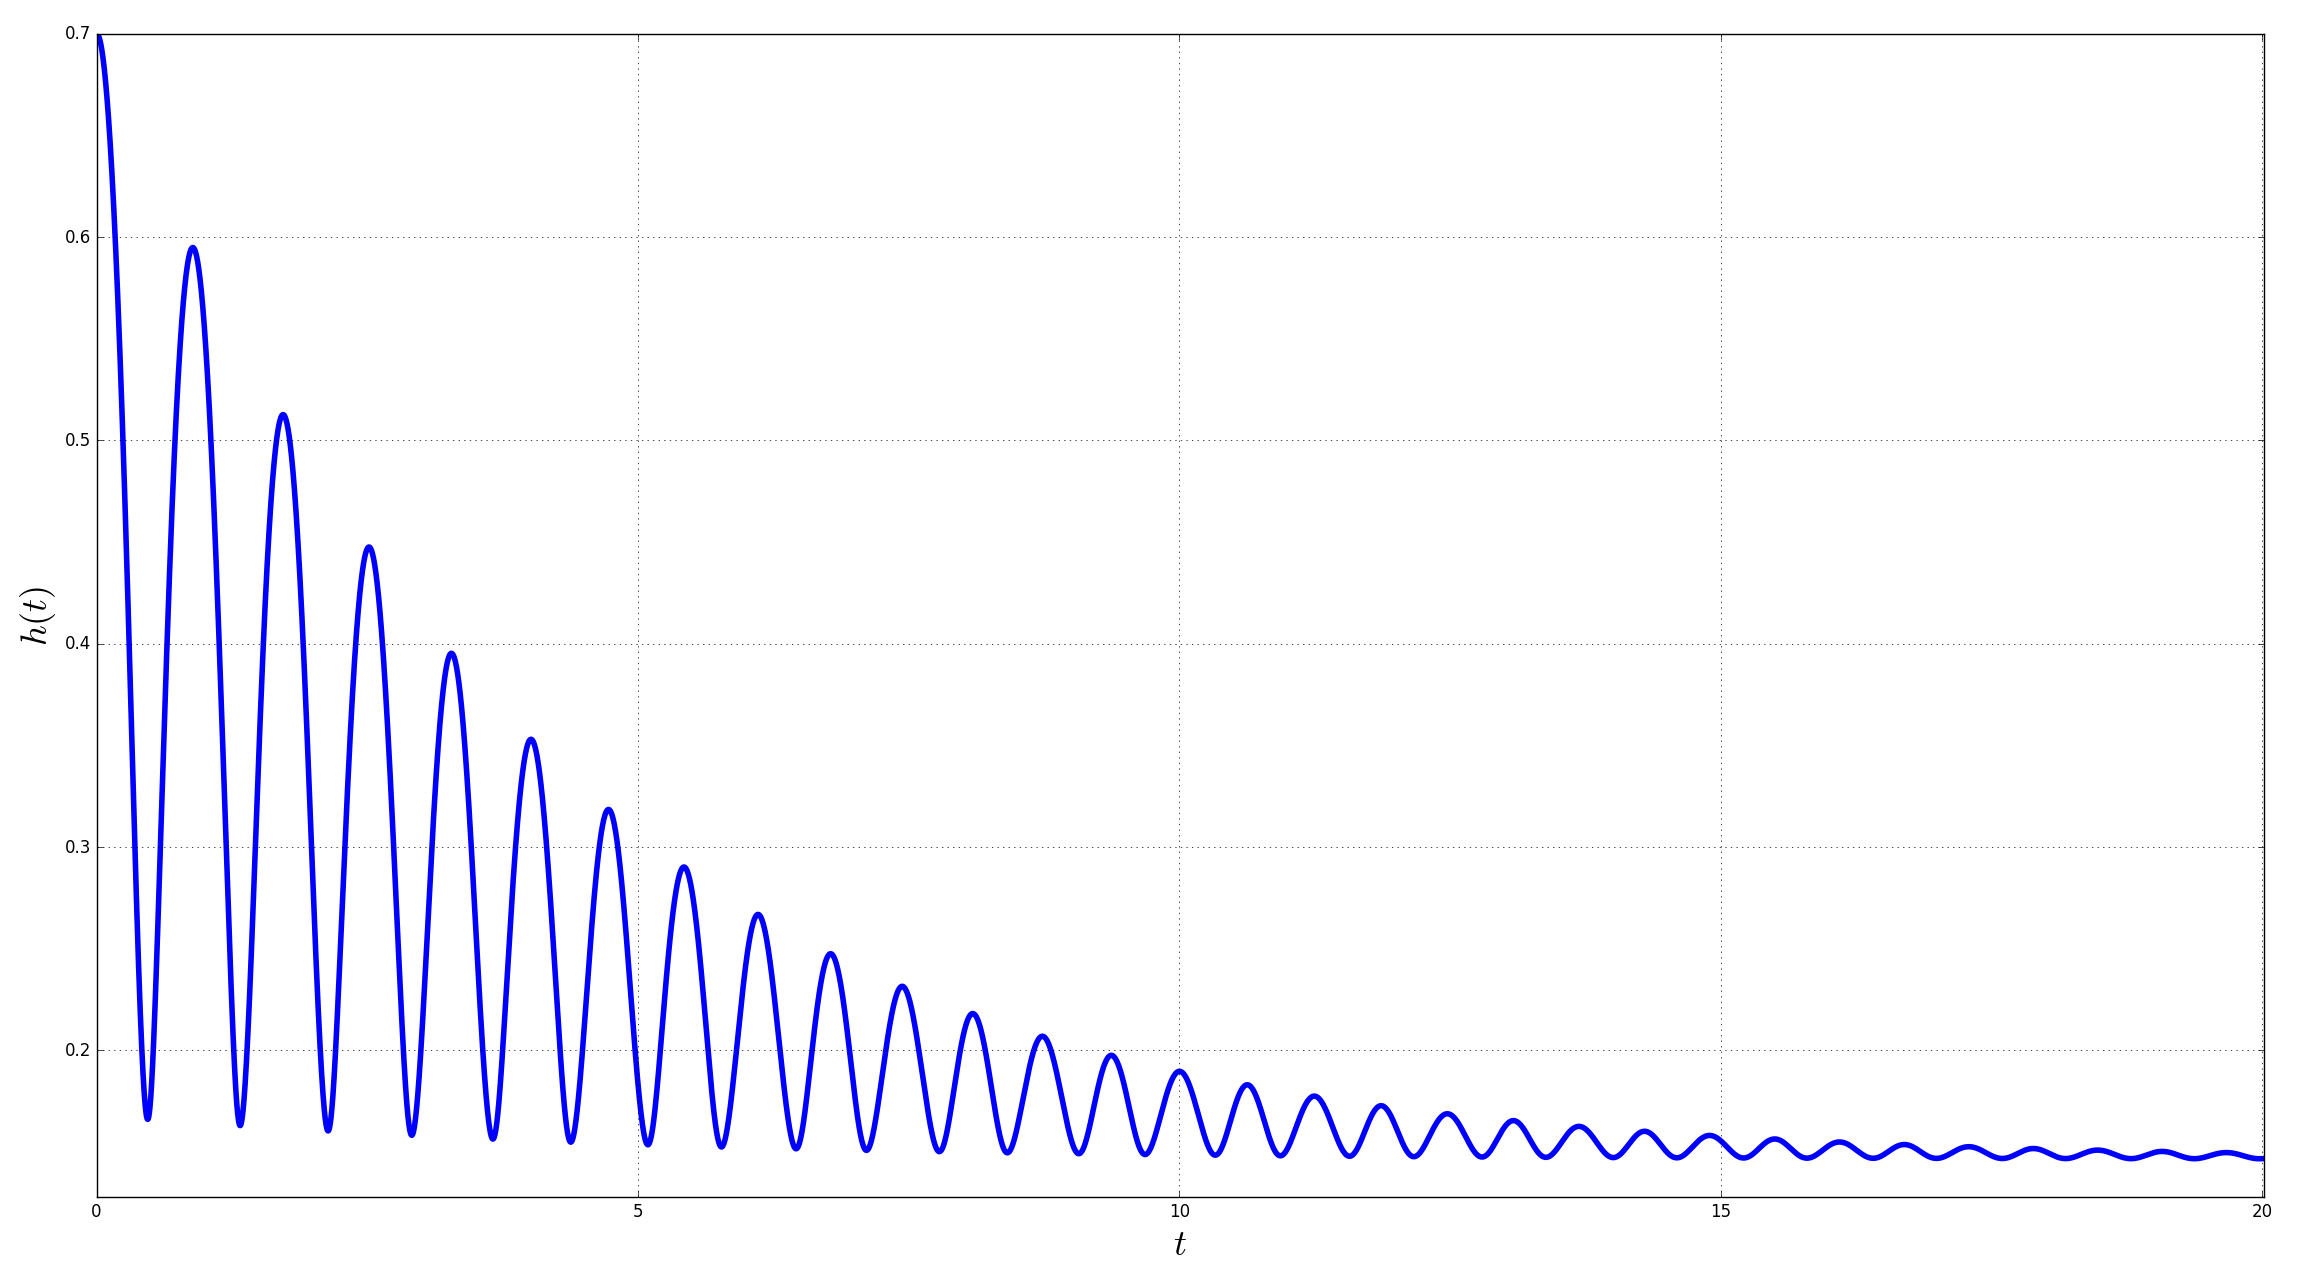
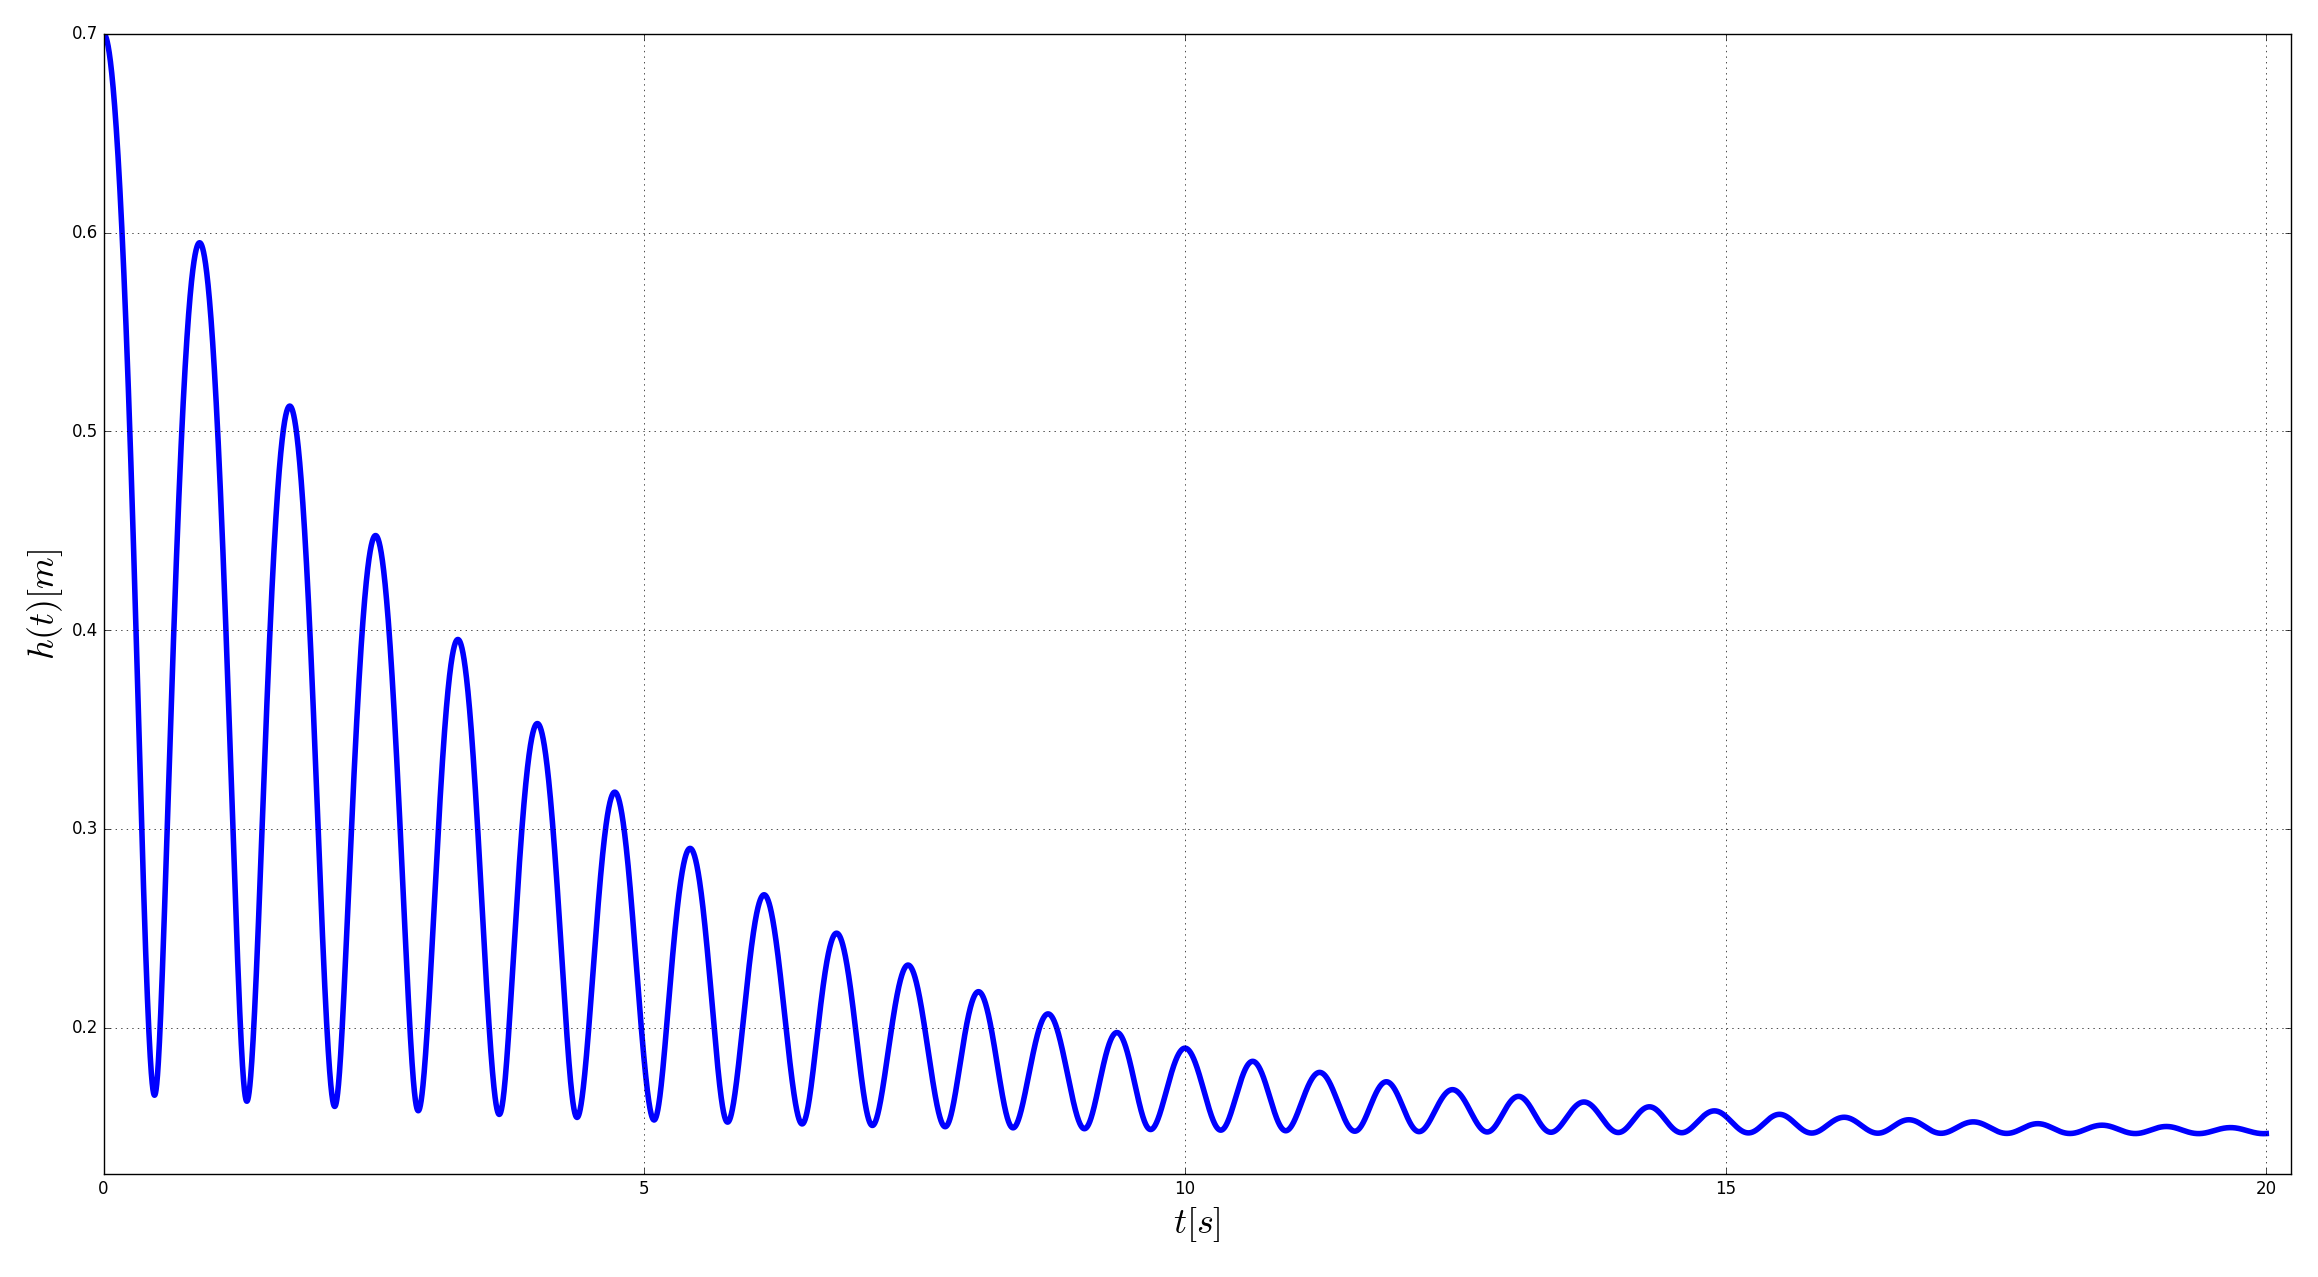
Fixes units on numerical analysis

diff --git a/numerical_analysis.py b/numerical_analysis.py
@@ -83,8 +83,8 @@ def main():
     plt.figure()
     #plt.subplot(221)
     plt.plot(t, y, linewidth=4.0)
-    plt.ylabel(r'$h(t)$', fontsize=26)
-    plt.xlabel(r'$t$', fontsize=26)
+    plt.ylabel(r'$h(t)[m]$', fontsize=26)
+    plt.xlabel(r'$t[s]$', fontsize=26)
     plt.grid()
     """
     plt.subplot(222)
